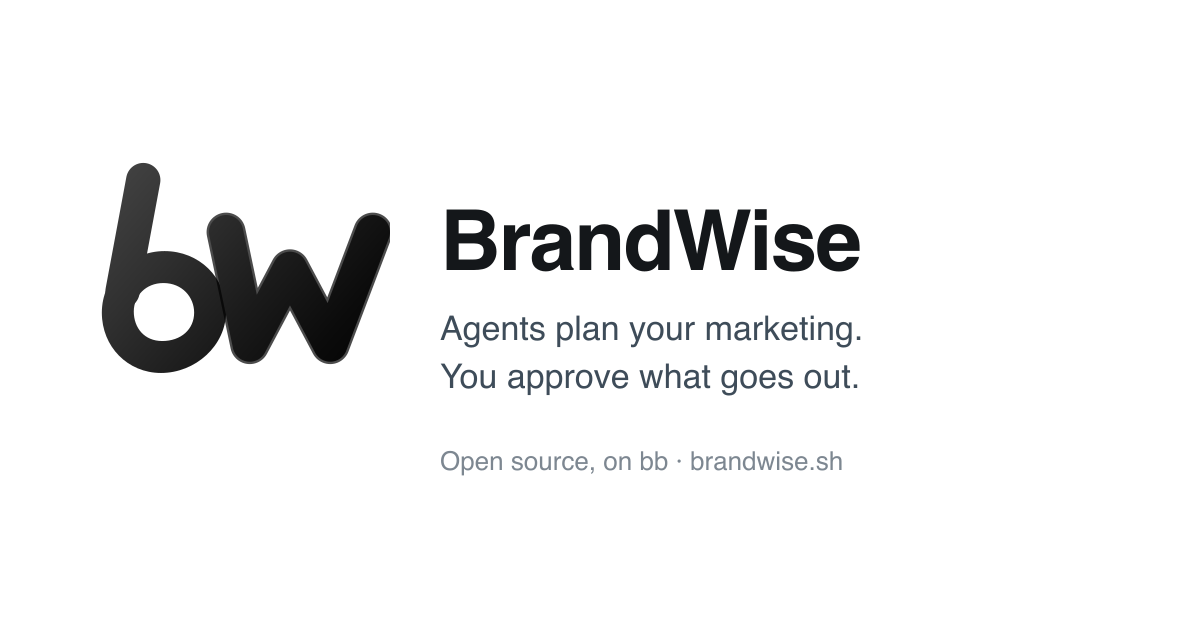
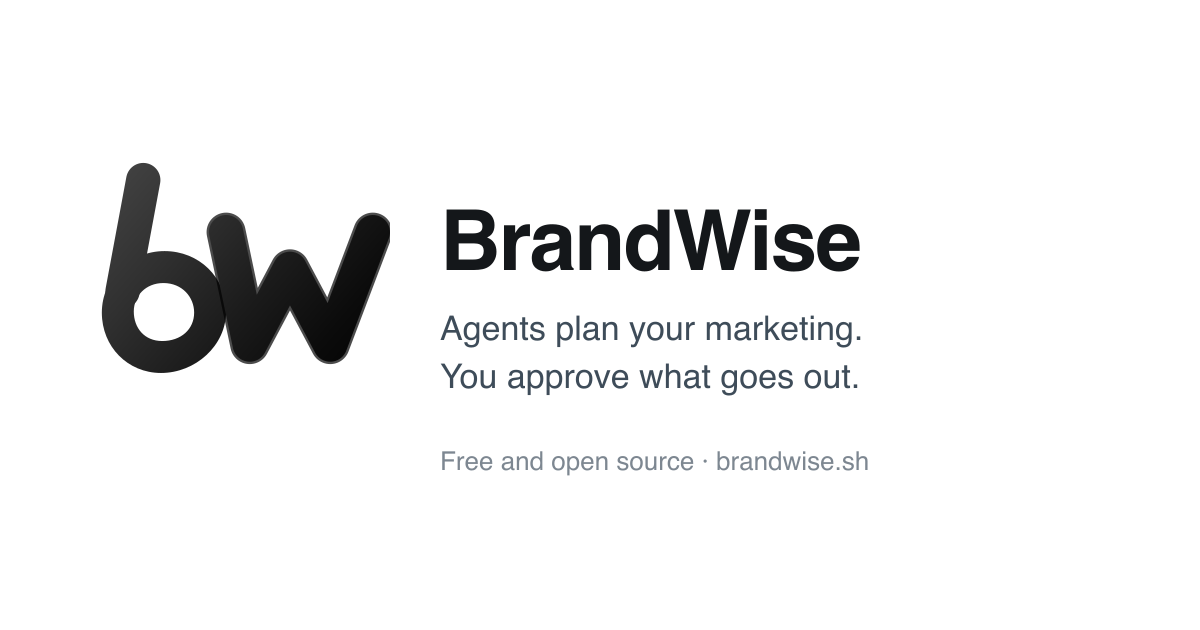
feat(site): redesign brandwise.sh in the style of a clean product landing page
Neutral palette and Inter-style typography, centred hero with a copyable command, a window mock of the calendar, a works-with
strip, alternating feature sections, a call to action and a four-column footer. Light and dark themes. Only the logos are copied
into the site at deploy time; no diagrams that name other tools.

Changed region(s): [[0.37, 0.7238, 0.74, 0.754]]

diff --git a/site/index.html b/site/index.html
@@ -4,12 +4,12 @@
 <meta charset="utf-8">
 <meta name="viewport" content="width=device-width,initial-scale=1">
 <title>BrandWise: agents plan your marketing, you approve what goes out</title>
-<meta name="description" content="BrandWise is an open-source, agent-driven marketing system on bb: a content calendar with human approval, connectors for Telegram and e-mail, provider-neutral statistics, creatives and video.">
+<meta name="description" content="BrandWise is an open-source marketing system where AI agents draft posts, e-mails and creatives, and a calendar with human approval is the only way anything leaves.">
 <link rel="canonical" href="https://brandwise.sh/">
 <link rel="icon" href="favicon.svg" type="image/svg+xml">
 <meta property="og:type" content="website">
 <meta property="og:title" content="BrandWise">
-<meta property="og:description" content="Agents plan your marketing. You approve what goes out. Open source, on bb.">
+<meta property="og:description" content="Agents plan your marketing. You approve what goes out. Free and open source.">
 <meta property="og:url" content="https://brandwise.sh/">
 <meta property="og:image" content="https://brandwise.sh/og.png">
 <meta name="twitter:card" content="summary_large_image">
@@ -17,84 +17,133 @@
 </head>
 <body>
 <div class="wrap">
-  <header class="top">
-    <a class="brand" href="/"><picture><source media="(prefers-color-scheme: dark)" srcset="images/logo-dark.svg"><img src="images/logo.svg" alt="" width="34"></picture>BrandWise</a>
-    <nav><a href="#how">How it works</a><a href="#inside">What is inside</a><a href="#start">Quick start</a><a href="https://github.com/amirmamaghani/brandwise">GitHub</a></nav>
+
+  <nav class="nav">
+    <a class="brand" href="/"><picture><source media="(prefers-color-scheme: dark)" srcset="images/logo-dark.svg"><img src="images/logo.svg" alt="" width="30"></picture>BrandWise</a>
+    <div class="nav-links">
+      <a href="#approval">Approval</a>
+      <a href="#agents">Agents</a>
+      <a href="#numbers">Statistics</a>
+      <a href="https://github.com/amirmamaghani/brandwise/blob/main/README.md">Docs</a>
+      <a class="btn btn-primary btn-sm" href="https://github.com/amirmamaghani/brandwise">View on GitHub</a>
+    </div>
+  </nav>
+
+  <header class="hero">
+    <h1>Agents plan your marketing. You approve what goes out.</h1>
+    <p class="sub">Agents draft the posts, e-mails and creatives. A calendar with human approval is the only way anything leaves, and results come back as numbers they can learn from.</p>
+    <div class="cta-row">
+      <a class="btn btn-primary" href="https://github.com/amirmamaghani/brandwise">View on GitHub</a>
+      <a class="btn btn-ghost" href="https://github.com/amirmamaghani/brandwise/blob/main/README.md#quick-start-local">Quick start</a>
+    </div>
+    <div class="install">
+      <button class="cmd" id="copy" type="button" aria-label="Copy command"><span class="d">$</span><span class="t">git clone https://github.com/amirmamaghani/brandwise</span><span class="c">Copy</span></button>
+      <span class="note">Free, open source, MIT licensed. Early: it works end to end, with rough edges.</span>
+    </div>
   </header>
 
-  <div class="hero">
-    <picture><source media="(prefers-color-scheme: dark)" srcset="images/logo-dark.svg"><img class="mark" src="images/logo.svg" alt="BrandWise logo: a b and a w woven together"></picture>
-    <h1>Agents plan your marketing.<br>You approve what goes out.</h1>
-    <p class="lead">An open-source, agent-driven marketing system on <a href="https://getbb.app">bb</a>. Agents draft posts, e-mails and creatives. A calendar with human approval is the only way anything leaves.</p>
-    <div class="btns">
-      <a class="btn primary" href="https://github.com/amirmamaghani/brandwise">View on GitHub</a>
-      <a class="btn" href="#start">Quick start</a>
+  <div class="mockwrap" aria-hidden="true">
+    <div class="mock">
+      <div class="mock-bar"><i></i><i></i><i></i><span>BrandWise · Calendar</span></div>
+      <div class="mock-body">
+        <div class="side">
+          <div class="item on">Calendar</div><div class="item">Creatives</div><div class="item">Campaigns</div><div class="item">Video</div><div class="item">Settings</div>
+          <div class="lbl">Waiting for approval</div>
+          <div class="q"><i class="dot"></i><span>Launch teaser reel<br><small>Instagram · tier 2</small></span></div>
+          <div class="q"><i class="dot"></i><span>November newsletter<br><small>E-mail · tier 3</small></span></div>
+          <div class="q"><i class="dot"></i><span>Webinar reminder<br><small>Telegram · tier 2</small></span></div>
+        </div>
+        <div class="main">
+          <div class="hd"><span>November 2026 · Week 46</span><div class="chips"><span>All campaigns</span><span>All channels</span></div></div>
+          <div class="week">
+            <div class="day"><b>Mon 9</b><div class="ev pub">Weekly digest<small>E-mail · published</small></div></div>
+            <div class="day"><b>Tue 10</b><div class="ev">Product tips<small>Telegram · approved</small></div><div class="ev pend">Launch teaser reel<small>Instagram · needs approval</small></div></div>
+            <div class="day"><b>Wed 11</b></div>
+            <div class="day"><b>Thu 12</b><div class="ev pend">November newsletter<small>E-mail · needs approval</small></div></div>
+            <div class="day"><b>Fri 13</b><div class="ev">Webinar reminder<small>Telegram · approved</small></div></div>
+          </div>
+          <div class="approve"><div class="tx"><b>Launch teaser reel</b><small>Drafted by an agent · Instagram · Tue 10, 09:00 · tier 2</small></div><span class="b">Send back</span><span class="b p">Approve</span></div>
+        </div>
+      </div>
     </div>
-    <p class="status">Early and unfinished: it works end to end on one machine, expect rough edges. MIT licensed.</p>
+    <p class="note" style="text-align:center;margin:10px 0 0">Illustration with sample data.</p>
   </div>
 
-  <section id="how">
-    <h2>How it works</h2>
-    <p class="sub">An idea becomes a draft, a draft becomes an approved calendar entry, a scheduler hands it to a connector, and the results come back as numbers the agent can learn from.</p>
-    <div class="diagram"><img src="images/flow.svg" alt="Flow: brief, agent drafts, calendar entry, human approval, scheduler, connector, platform, events, statistics, next round" width="1240" height="560"></div>
-  </section>
+  <div class="proof">
+    <h2>Works with</h2>
+    <ul><li>Telegram</li><li>E-mail via Resend</li><li>Remotion</li><li>Higgsfield</li><li>Postgres</li><li>S3</li></ul>
+  </div>
 
-  <section id="principles">
-    <h2>Principles</h2>
-    <div class="grid">
-      <div class="card"><h3>The calendar is the only way out</h3><p>Agents create and edit entries. They never publish and never approve. A scheduler fires approved entries when their time comes.</p></div>
-      <div class="card"><h3>Approval tiers</h3><p>Tier 1 passes automatically, tier 2 needs one click, tier 3 is a deliberate manual approval. When unsure, the higher tier wins.</p></div>
-      <div class="card"><h3>Agents get tools, not keys</h3><p>Agents use the <code>bb brandwise</code> CLI, also over MCP. API keys live in settings and are never shown to them.</p></div>
-      <div class="card"><h3>Swap providers freely</h3><p>Statistics hang on our own records, so replacing the e-mail provider does not break reports.</p></div>
+  <section class="band" id="approval">
+    <div class="split">
+      <div>
+        <h2>Nothing leaves without a yes.</h2>
+        <p>Agents create and edit calendar entries. They never publish and never approve. When an approved entry is due, a scheduler hands it to a connector.</p>
+        <p>Low-risk entries can pass on their own, others wait for one click, and anything sensitive needs a deliberate manual approval. When unsure, the higher tier wins.</p>
+      </div>
+      <div class="card"><div class="rows">
+        <div class="row"><b>Tier 1</b><span>Routine post</span><em class="pill ok">Passes automatically</em></div>
+        <div class="row"><b>Tier 2</b><span>New campaign content</span><em class="pill att">One click</em></div>
+        <div class="row"><b>Tier 3</b><span>Prices, guarantees, claims</span><em class="pill">Manual approval</em></div>
+      </div></div>
     </div>
   </section>
 
-  <section id="inside">
-    <h2>What is inside</h2>
-    <table>
-      <tr><th>Area</th><th>What it does</th></tr>
-      <tr><td>Campaigns</td><td>An always-on base (brand or product) plus time-bound campaigns that inherit from it.</td></tr>
-      <tr><td>Calendar</td><td>Month and week views, approval queue, change requests, retries and failure reasons.</td></tr>
-      <tr><td>Creatives</td><td>Library of images and videos in S3, thumbnails, AI provenance, upload and CRUD.</td></tr>
-      <tr><td>Publishing</td><td>Connectors for Telegram and e-mail (Resend); channels without a connector wait as "Publish by hand".</td></tr>
-      <tr><td>E-mail</td><td>Provider-neutral events, counts and a metric catalog: opens, clicks, bounces, rates.</td></tr>
-      <tr><td>Generation</td><td>Image and video generation with per-call and daily credit limits.</td></tr>
-      <tr><td>Video (optional)</td><td>Remotion projects per campaign, Remotion Studio next to an agent chat.</td></tr>
-      <tr><td>Agents</td><td>"Start agent" in the side panel of every page; it knows which page and project you are on.</td></tr>
-    </table>
-  </section>
-
-  <section id="architecture">
-    <h2>Architecture</h2>
-    <p class="sub">A bb plugin over a small core on Postgres and S3. Connectors and providers are modules you can add without touching the rest.</p>
-    <div class="diagram"><img src="images/architecture.svg" alt="Architecture: people and agents, a dedicated bb instance with the BrandWise plugin, scheduler and core, publishing connectors and providers" width="1240" height="722"></div>
-  </section>
-
-  <section id="start">
-    <h2>Quick start</h2>
-    <p class="sub">Requires Node 24, Docker, <a href="https://getbb.app">bb</a> 0.48 or newer and <code>rsync</code>.</p>
-<pre>git clone https://github.com/amirmamaghani/brandwise.git
-cd brandwise
-cp .env.example .env
-npm run infra:up                 # Postgres and an S3 emulator
-infra/bb-instance/provision.sh up
-
-export BB_SERVER_URL=http://127.0.0.1:38896 BB_HOST_DAEMON_PORT=38897
-bb brandwise campaign list       # "Main brand" is created on first start</pre>
-    <p class="sub" style="margin-top:18px">Telegram and e-mail switch on when their credentials are in <code>.env</code>. Details are in the <a href="https://github.com/amirmamaghani/brandwise#quick-start-local">README</a> and <a href="https://github.com/amirmamaghani/brandwise/blob/main/CONTRIBUTING.md">CONTRIBUTING</a>.</p>
-  </section>
-
-  <section id="licences">
-    <h2>Licences and responsible use</h2>
-    <p class="sub" style="margin-bottom:0">BrandWise is MIT licensed. Remotion, used by the optional video engine, has its own licence: free for individuals and companies up to three people. Marketing e-mail needs recipient consent and a working unsubscribe, and AI-written claims in regulated areas such as finance or health must be reviewed by a human.</p>
-  </section>
-
-  <footer>
-    <div class="row">
-      <span>&copy; 2026 Amir Mamaghani. MIT licence.</span>
-      <span><a href="https://github.com/amirmamaghani/brandwise">GitHub</a> &middot; <a href="https://github.com/amirmamaghani/brandwise/blob/main/SECURITY.md">Security</a> &middot; <a href="https://github.com/amirmamaghani/brandwise/blob/main/CODE_OF_CONDUCT.md">Code of conduct</a></span>
+  <section class="band" id="agents">
+    <div class="split">
+      <div class="card"><div class="code"><span class="m"># what an agent runs (you can run the same)</span>
+<span class="k">calendar add</span> "Launch teaser" \
+  --channel instagram --tier 2 \
+  --at 2026-11-10T09:00Z
+<span class="k">creative generate</span> ...
+<span class="k">email stats</span> &lt;entry&gt;</div></div>
+      <div>
+        <h2>Agents propose. Code decides.</h2>
+        <p>Every page has an agent that knows which campaign and project you are looking at. It drafts, generates creatives, edits video and reads the results, using the same commands you can run yourself.</p>
+        <p>API keys stay in settings and are never shown to it. Failed sends retry, then surface in the calendar with the reason.</p>
+      </div>
     </div>
+  </section>
+
+  <section class="band" id="numbers">
+    <div class="split">
+      <div>
+        <h2>Swap providers. Keep your numbers.</h2>
+        <p>Opens, clicks and bounces are computed from your own records in one provider-neutral format, so replacing the e-mail provider does not break a single report. A metric a provider cannot report shows as n/a, never as a made-up zero.</p>
+      </div>
+      <div class="card">
+        <div class="stat"><span>Example</span><b></b><em>sample numbers for illustration</em></div>
+        <div class="stat"><span>Delivered</span><b>1,842</b></div>
+        <div class="stat"><span>Click rate</span><b>3.1 %</b><em>reliable</em></div>
+        <div class="stat"><span>Bounce rate</span><b>0.4 %</b></div>
+        <div class="stat"><span>Open rate</span><b>41.2 %</b><em>indicative: mail privacy proxies inflate opens</em></div>
+        <div class="stat"><span>Unsubscribe rate</span><b>n/a</b><em>not reported by this provider</em></div>
+      </div>
+    </div>
+  </section>
+
+  <section class="band">
+    <h2>Fully yours.</h2>
+    <p>BrandWise runs on your machine with a local Postgres and any S3-compatible storage. Campaigns, calendar, creatives and statistics stay with you.</p>
+    <p>It is MIT licensed. Add a channel with one small connector, an e-mail provider with one adapter file, and make the rest your own.</p>
+  </section>
+
+  <section class="band cta">
+    <h2>Put your agents to work.</h2>
+    <p>Free and open source. Early software, built in the open.</p>
+    <div class="cta-row"><a class="btn btn-primary" href="https://github.com/amirmamaghani/brandwise">View on GitHub</a><a class="btn btn-ghost" href="https://github.com/amirmamaghani/brandwise/blob/main/CONTRIBUTING.md">Contribute</a></div>
+  </section>
+
+  <footer class="footer">
+    <picture class="footer-mark"><source media="(prefers-color-scheme: dark)" srcset="images/logo-dark.svg"><img src="images/logo.svg" alt="BrandWise" width="30"></picture>
+    <div><div class="ft">Project</div><ul><li><a href="https://github.com/amirmamaghani/brandwise">Source</a></li><li><a href="https://github.com/amirmamaghani/brandwise/blob/main/README.md">README</a></li><li><a href="https://github.com/amirmamaghani/brandwise/blob/main/docs/roadmap.md">Roadmap</a></li></ul></div>
+    <div><div class="ft">Docs</div><ul><li><a href="https://github.com/amirmamaghani/brandwise/blob/main/docs/architecture.md">Architecture</a></li><li><a href="https://github.com/amirmamaghani/brandwise/blob/main/docs/email.md">E-mail</a></li><li><a href="https://github.com/amirmamaghani/brandwise/blob/main/docs/assets.md">Assets</a></li></ul></div>
+    <div><div class="ft">Community</div><ul><li><a href="https://github.com/amirmamaghani/brandwise/issues">Issues</a></li><li><a href="https://github.com/amirmamaghani/brandwise/blob/main/CONTRIBUTING.md">Contributing</a></li><li><a href="https://github.com/amirmamaghani/brandwise/blob/main/SECURITY.md">Security</a></li><li><a href="https://github.com/amirmamaghani/brandwise/blob/main/CODE_OF_CONDUCT.md">Code of conduct</a></li></ul></div>
+    <div class="pub-line">&copy; 2026 Amir Mamaghani. MIT licensed. Remotion, used by the optional video engine, has its own licence. Marketing e-mail needs recipient consent and a working unsubscribe, and AI-written claims in regulated areas must be reviewed by a human.</div>
   </footer>
 </div>
+<script>
+document.getElementById("copy").addEventListener("click",function(){var b=this;navigator.clipboard.writeText("git clone https://github.com/amirmamaghani/brandwise").then(function(){var c=b.querySelector(".c");b.classList.add("copied");c.textContent="Copied";setTimeout(function(){b.classList.remove("copied");c.textContent="Copy"},1600)})});
+</script>
 </body>
 </html>

diff --git a/site/style.css b/site/style.css
@@ -1,30 +1,87 @@
-:root{--bg:#fff;--fg:#14171a;--muted:#5b6670;--line:#e3e7eb;--card:#f6f8fa;--accent:#2f5bff;--code:#0f1418;--codefg:#e6edf3}
-@media (prefers-color-scheme:dark){:root{--bg:#0d1117;--fg:#e6edf3;--muted:#9aa7b2;--line:#252c34;--card:#151b22;--accent:#7a97ff;--code:#010409;--codefg:#e6edf3}}
-*{box-sizing:border-box}html{scroll-behavior:smooth}
-body{margin:0;background:var(--bg);color:var(--fg);font:17px/1.6 -apple-system,BlinkMacSystemFont,"Segoe UI",Helvetica,Arial,sans-serif}
-a{color:var(--accent)}img{max-width:100%;height:auto}
-.wrap{max-width:980px;margin:0 auto;padding:0 24px}
-header.top{display:flex;align-items:center;justify-content:space-between;padding:20px 0}
-header.top a.brand{display:flex;align-items:center;gap:10px;color:var(--fg);text-decoration:none;font-weight:700}
-header.top img{width:34px}
-nav a{margin-left:20px;color:var(--muted);text-decoration:none;font-size:15px}nav a:hover{color:var(--fg)}
-.hero{padding:72px 0 56px;text-align:center}
-.hero img.mark{width:104px;margin-bottom:18px}
-h1{font-size:clamp(34px,6vw,56px);line-height:1.1;margin:0 0 18px;letter-spacing:-.02em}
-.lead{font-size:clamp(18px,2.4vw,21px);color:var(--muted);max-width:720px;margin:0 auto 30px}
-.btns{display:flex;gap:12px;justify-content:center;flex-wrap:wrap}
-.btn{display:inline-block;padding:11px 20px;border-radius:10px;border:1px solid var(--line);text-decoration:none;font-weight:600;color:var(--fg)}
-.btn.primary{background:var(--fg);color:var(--bg);border-color:var(--fg)}
-.status{margin-top:22px;font-size:14px;color:var(--muted)}
-section{padding:48px 0;border-top:1px solid var(--line)}
-h2{font-size:30px;margin:0 0 10px;letter-spacing:-.01em}
-.sub{color:var(--muted);margin:0 0 28px;max-width:700px}
-.diagram{background:#fff;border:1px solid var(--line);border-radius:16px;overflow:hidden}
-.grid{display:grid;grid-template-columns:repeat(auto-fit,minmax(260px,1fr));gap:16px}
-.card{background:var(--card);border:1px solid var(--line);border-radius:14px;padding:18px 20px}
-.card h3{margin:0 0 6px;font-size:18px}.card p{margin:0;color:var(--muted);font-size:15.5px}
-pre{background:var(--code);color:var(--codefg);border-radius:12px;padding:18px 20px;overflow:auto;font:14px/1.6 ui-monospace,SFMono-Regular,Menlo,Consolas,monospace}
-code{font-family:ui-monospace,SFMono-Regular,Menlo,Consolas,monospace;font-size:.92em}
-table{border-collapse:collapse;width:100%;font-size:15.5px}td,th{border-bottom:1px solid var(--line);padding:10px 12px;text-align:left;vertical-align:top}th{color:var(--muted);font-weight:600}
-footer{border-top:1px solid var(--line);padding:32px 0 56px;color:var(--muted);font-size:14.5px}
-footer .row{display:flex;justify-content:space-between;gap:16px;flex-wrap:wrap}
+:root{color-scheme:light dark;--bg:oklch(100% 0 0);--ink:oklch(32% 0 0);--dim:oklch(44% 0 0);--subtle:oklch(50% 0 0);--heading:oklch(21% 0 0);--heading-sub:oklch(24% 0 0);--shade:var(--ink);
+--border:color-mix(in oklab,var(--ink) 14%,var(--bg));--border-soft:color-mix(in oklab,var(--ink) 8%,var(--bg));--surface:color-mix(in oklab,var(--ink) 3.5%,var(--bg));--surface-2:color-mix(in oklab,var(--ink) 6%,var(--bg));--hover:color-mix(in oklab,var(--ink) 5.9%,var(--bg));
+--accent:oklch(55% .1 250);--ok:oklch(62% .15 155);--attention:oklch(70% .15 80);--del:oklch(50% .17 28);--radius:.5rem;
+--sans:"Inter Variable",Inter,-apple-system,BlinkMacSystemFont,"Segoe UI",Roboto,sans-serif;--mono:"Fira Code",ui-monospace,"SF Mono",Menlo,Consolas,monospace}
+@media (prefers-color-scheme:dark){:root{--bg:oklch(19.5% 0 0);--ink:oklch(81% 0 0);--dim:oklch(75% 0 0);--subtle:oklch(68% 0 0);--heading:oklch(93% 0 0);--heading-sub:oklch(88% 0 0);--shade:oklch(0% 0 0);
+--border:color-mix(in oklab,var(--ink) 19.4%,var(--bg));--border-soft:color-mix(in oklab,var(--ink) 11%,var(--bg));--surface:color-mix(in oklab,var(--ink) 4.3%,var(--bg));--surface-2:color-mix(in oklab,var(--ink) 8%,var(--bg));--hover:color-mix(in oklab,var(--ink) 9%,var(--bg));
+--accent:oklch(72% .09 250);--ok:oklch(74% .15 155);--attention:oklch(80% .15 80);--del:oklch(72% .19 22)}}
+*{box-sizing:border-box}html{scroll-behavior:smooth;scrollbar-gutter:stable both-edges;overflow-x:clip}
+body{margin:0;background:var(--bg);color:var(--ink);font-family:var(--sans);-webkit-font-smoothing:antialiased;font-size:16px;line-height:1.6}
+a{color:inherit;text-decoration:none}img{max-width:100%;display:block}
+.wrap{max-width:980px;margin:0 auto;padding:0 28px}
+/* nav */
+.nav{display:flex;justify-content:space-between;align-items:center;padding:22px 0}
+.brand{display:flex;align-items:center;gap:9px;font-weight:650;color:var(--heading);letter-spacing:-.01em}
+.brand img{width:30px;height:auto}
+.nav-links{display:flex;align-items:center;gap:22px;font-size:14.5px}
+.nav-links a:not(.btn){color:var(--dim)}.nav-links a:not(.btn):hover{color:var(--ink)}
+.btn{display:inline-block;border-radius:calc(var(--radius) - 2px);border:1px solid transparent;padding:10px 20px;font-size:14.5px;font-weight:500;cursor:pointer;transition:background .15s,transform .15s,box-shadow .15s}
+.btn:hover{transform:translateY(-1px)}
+.btn-primary{background:var(--ink);color:var(--bg)}
+.btn-primary:hover{background:color-mix(in oklab,var(--ink) 90%,var(--bg));box-shadow:0 4px 14px color-mix(in oklab,var(--shade) 18%,transparent)}
+.btn-ghost{border-color:var(--border)}.btn-ghost:hover{background:var(--hover)}
+.btn-sm{padding:7px 14px;font-size:13.5px}
+/* hero */
+.hero{text-align:center;padding:56px 0 48px}
+.hero h1{letter-spacing:-.035em;max-width:780px;color:var(--heading);text-wrap:balance;margin:0 auto;font-size:clamp(36px,6vw,58px);font-weight:700;line-height:1.08}
+.hero .sub{color:var(--dim);text-wrap:balance;max-width:620px;margin:22px auto 0;font-size:17.5px}
+.cta-row{display:flex;flex-wrap:wrap;justify-content:center;gap:12px;margin-top:38px}
+.install{display:flex;flex-direction:column;align-items:center;gap:13px;margin:22px auto 0}
+.cmd{display:inline-flex;align-items:center;gap:8px;max-width:100%;padding:6px 12px;font:13px/1.5 var(--mono);color:var(--ink);background:var(--bg);border:1px solid var(--border);border-radius:calc(var(--radius) - 2px);cursor:pointer;position:relative}
+.cmd .d{color:var(--accent)}.cmd .t{overflow:hidden;text-overflow:ellipsis;white-space:nowrap}
+.cmd .c{border-left:1px solid var(--border);font-family:var(--sans);color:var(--subtle);margin-left:3px;padding-left:11px;font-size:12.5px}
+.cmd:hover .c{color:var(--ink)}.cmd.copied .c{color:var(--accent)}
+.note{color:var(--subtle);font-size:12.5px}
+/* app window mock */
+.mockwrap{margin:30px 0 8px}
+.mock{border:1px solid var(--border);background:var(--bg);border-radius:12px;overflow:hidden;box-shadow:0 1px 0 color-mix(in oklab,var(--shade) 4%,transparent),0 30px 70px -32px color-mix(in oklab,var(--shade) 34%,transparent);text-align:left}
+.mock-bar{display:flex;align-items:center;gap:7px;padding:10px 14px;border-bottom:1px solid var(--border-soft);background:var(--surface)}
+.mock-bar i{width:10px;height:10px;border-radius:50%;background:var(--border)}
+.mock-bar span{margin-left:10px;font-size:12px;color:var(--subtle)}
+.mock-body{display:grid;grid-template-columns:210px 1fr;min-height:360px;font-size:13px}
+.side{border-right:1px solid var(--border-soft);padding:14px 10px;background:var(--surface);display:flex;flex-direction:column;gap:2px}
+.side .item{padding:6px 10px;border-radius:7px;color:var(--dim)}
+.side .item.on{background:var(--hover);color:var(--ink);font-weight:550}
+.side .lbl{margin:14px 10px 4px;font-size:11px;letter-spacing:.04em;text-transform:uppercase;color:var(--subtle)}
+.side .q{display:flex;gap:8px;align-items:flex-start;padding:6px 10px;border-radius:7px;color:var(--dim);line-height:1.35}
+.dot{flex:none;width:8px;height:8px;border-radius:50%;margin-top:5px;background:var(--attention)}
+.dot.ok{background:var(--ok)}.dot.grey{background:var(--subtle)}
+.main{padding:16px 18px;display:flex;flex-direction:column;gap:12px}
+.main .hd{display:flex;justify-content:space-between;align-items:center;color:var(--heading);font-weight:600;font-size:14px}
+.chips{display:flex;gap:6px}.chips span{padding:2px 9px;border:1px solid var(--border);border-radius:99px;font-size:11.5px;color:var(--dim);font-weight:400}
+.week{display:grid;grid-template-columns:repeat(5,1fr);gap:8px;flex:1}
+.day{border:1px solid var(--border-soft);border-radius:8px;padding:8px;display:flex;flex-direction:column;gap:6px;min-height:150px}
+.day b{font-size:11px;color:var(--subtle);font-weight:500}
+.ev{border:1px solid var(--border);border-radius:6px;padding:5px 7px;font-size:11.5px;line-height:1.3;background:var(--bg)}
+.ev small{display:block;color:var(--subtle);font-size:10.5px}
+.ev.pend{border-style:dashed;border-color:color-mix(in oklab,var(--attention) 70%,var(--border))}
+.ev.pub{opacity:.65}
+.approve{display:flex;align-items:center;gap:12px;border:1px solid var(--border);border-radius:9px;padding:10px 12px;background:var(--surface)}
+.approve .tx{flex:1;line-height:1.35}.approve .tx small{display:block;color:var(--subtle)}
+.approve .b{padding:5px 11px;border-radius:6px;border:1px solid var(--border);font-size:12px;background:var(--bg)}
+.approve .b.p{background:var(--ink);color:var(--bg);border-color:var(--ink)}
+/* works with */
+.proof{display:flex;align-items:center;gap:28px;padding:28px 0;border-top:1px solid var(--border-soft);margin-top:36px;flex-wrap:wrap}
+.proof h2{color:var(--subtle);font-size:13px;font-weight:400;margin:0;flex-shrink:0}
+.proof ul{display:flex;gap:28px;list-style:none;margin:0;padding:0;flex-wrap:wrap;color:var(--dim);font-weight:550;letter-spacing:-.01em}
+/* bands */
+.band{border-top:1px solid var(--border-soft);padding:64px 0}
+.band h2{letter-spacing:-.03em;color:var(--heading);font-size:clamp(28px,4vw,38px);line-height:1.15;margin:0 0 16px;font-weight:700;text-wrap:balance}
+.band p{color:var(--dim);max-width:640px;margin:0 0 14px}
+.split{display:grid;grid-template-columns:1fr 1fr;gap:44px;align-items:center}
+.card{border:1px solid var(--border);border-radius:12px;background:var(--bg);overflow:hidden;box-shadow:0 20px 50px -34px color-mix(in oklab,var(--shade) 40%,transparent)}
+.rows{display:flex;flex-direction:column}.row{display:flex;gap:12px;align-items:center;padding:13px 16px;border-top:1px solid var(--border-soft);font-size:14px}.row:first-child{border-top:0}
+.row b{color:var(--heading);font-weight:600;min-width:84px}.row span{color:var(--dim)}
+.pill{font-style:normal;margin-left:auto;font-size:11.5px;padding:2px 9px;border-radius:99px;border:1px solid var(--border);color:var(--dim);white-space:nowrap}
+.pill.ok{color:var(--ok);border-color:color-mix(in oklab,var(--ok) 45%,var(--border))}.pill.att{color:var(--attention);border-color:color-mix(in oklab,var(--attention) 50%,var(--border))}
+.stat{display:grid;grid-template-columns:1fr auto;gap:2px 16px;padding:11px 16px;border-top:1px solid var(--border-soft);font-size:14px}.stat:first-child{border-top:0}
+.stat span{color:var(--dim)}.stat b{font-variant-numeric:tabular-nums;color:var(--heading)}.stat em{grid-column:1/-1;font-style:normal;color:var(--subtle);font-size:12px}
+.code{font:13px/1.7 var(--mono);background:var(--surface);padding:16px 18px;color:var(--ink);overflow:auto;white-space:pre}
+.code .k{color:var(--accent)}.code .m{color:var(--subtle)}
+.cta{text-align:center}.cta p{margin-left:auto;margin-right:auto}
+/* footer */
+.footer{border-top:1px solid var(--border-soft);color:var(--subtle);display:grid;grid-template-columns:repeat(3,1fr);gap:40px 32px;padding:56px 0 64px;font-size:14px}
+.footer a:hover{color:var(--ink)}.footer-mark{grid-column:1/-1;width:30px}
+.ft{color:var(--heading-sub);font-size:13px;font-weight:600}.footer ul{list-style:none;margin:12px 0 0;padding:0;display:flex;flex-direction:column;gap:9px}
+.pub-line{grid-column:1/-1;color:var(--dim);font-size:12.5px}
+@media (max-width:760px){.mock-body{grid-template-columns:1fr}.side{display:none}.week{grid-template-columns:repeat(2,1fr)}.day:nth-child(n+3){display:none}.split{grid-template-columns:1fr}.nav-links a:not(.btn){display:none}.footer{grid-template-columns:1fr 1fr}.footer-mark,.pub-line{grid-column:1/-1}}
